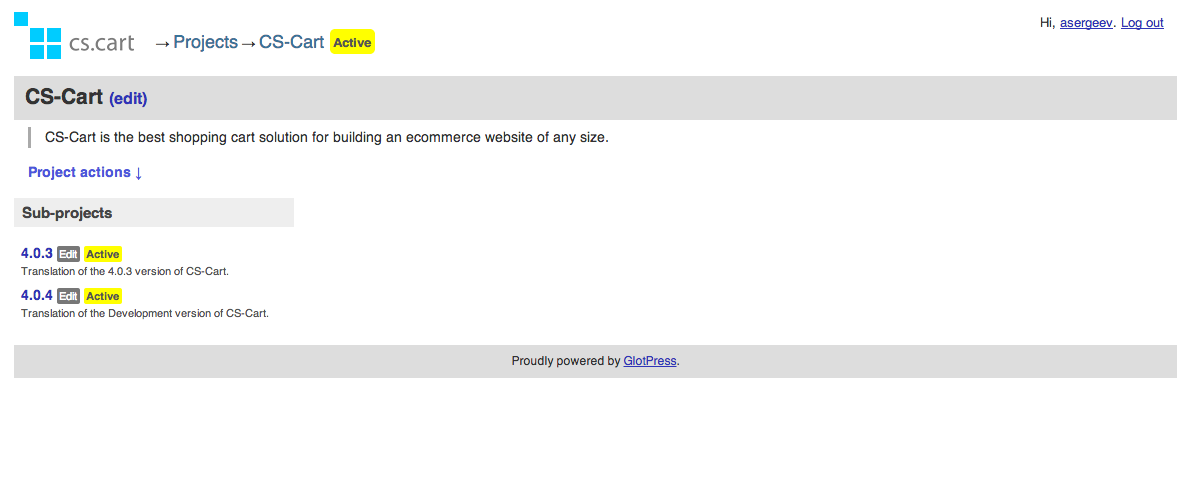
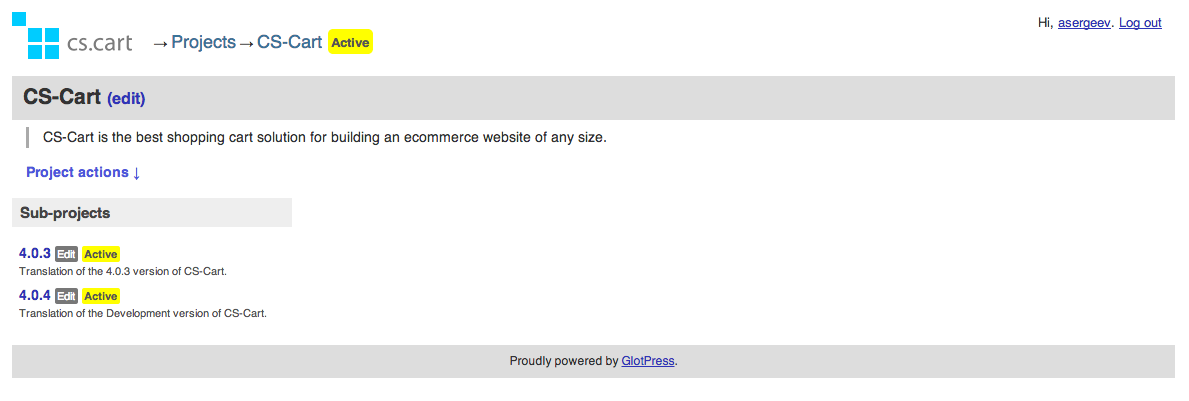
Translator Guide: Image added

diff --git a/translation/translator.rst b/translation/translator.rst
@@ -15,9 +15,13 @@ Go to the `CS-Cart Translator <http://translate.cs-cart.com/>`_ website and log 
 
 On this page, all the released and scheduled CS-Cart versions are listed. The released versions are separated from the scheduled ones by a horizontal line.
 
+.. image:: img/projects.png
+    :align: center
+    :alt: qwe
+    
 Select the nearest scheduled version:
 
-.. image:: img/projects.png
+.. image:: img/projects_01.png
     :align: center
     :alt: qwe
 
